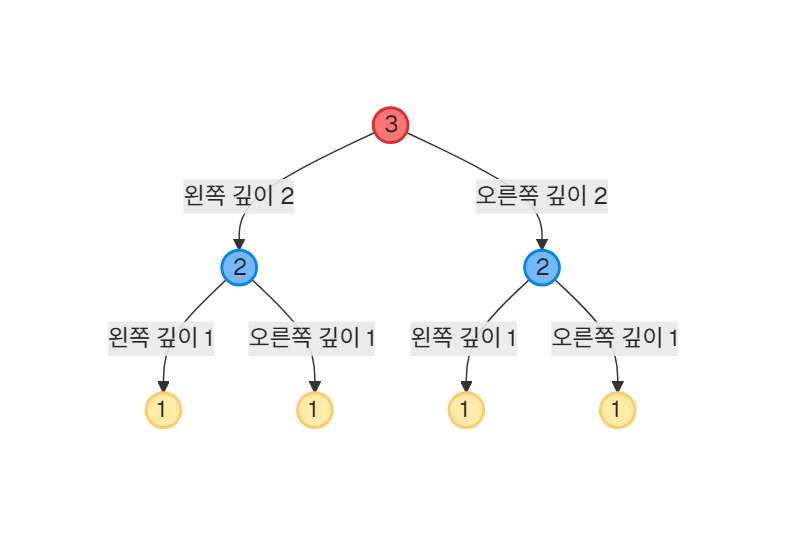
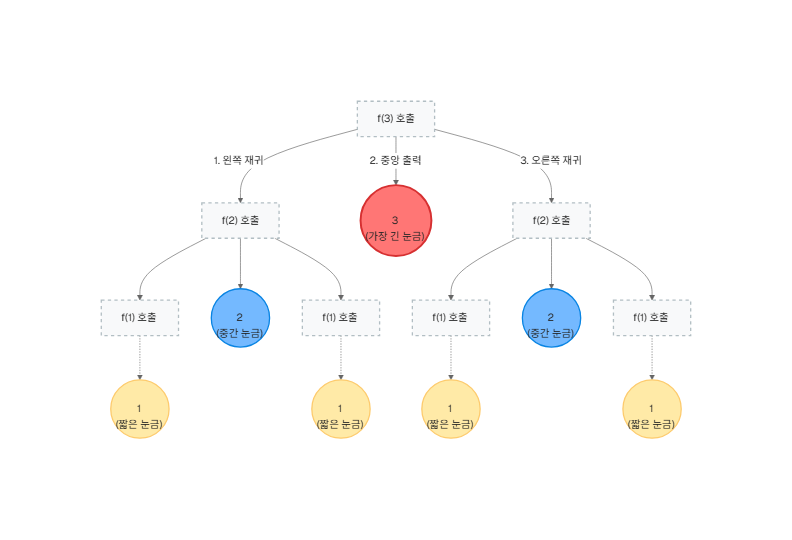
이미지 자료  추가중

diff --git a/practice/data/content/programming/doingcoding/LV26_재귀/02_workspace/SALLv10002_LOCAL.md b/practice/data/content/programming/doingcoding/LV26_재귀/02_workspace/SALLv10002_LOCAL.md
@@ -31,9 +31,9 @@ title: "02. [재귀2 - 2] 재귀적 눈금 그리기"
 눈금을 그릴 때 다음과 같은 규칙을 사용합니다.
 
 ```
-깊이 1:      1
-깊이 2:    1 2 1
-깊이 3:  1 2 1 3 1 2 1
+깊이 1:               1
+깊이 2:             1 2 1
+깊이 3:         1 2 1 3 1 2 1
 깊이 4: 1 2 1 3 1 2 1 4 1 2 1 3 1 2 1
 ```
 
@@ -89,7 +89,7 @@ $N$이 주어지면 깊이 $N$의 눈금 수열을 공백으로 구분하여 한
 
 ![alt text](image-6.png)
 
-* 수업(`ALLv10003`)의 알파벳 트리 코드에서 알파벳 출력 부분만 숫자로 바꾸면 됩니다.
+* 수업(`ALLv10002`)의 알파벳 트리 코드에서 알파벳 출력 부분만 숫자로 바꾸면 됩니다.
 * 공백 처리: `printf(" %d", depth)` 방식으로 출력하면 맨 앞에 공백이 생깁니다. 대신 가장 첫 번째 숫자를 따로 처리하거나, 전역 변수 `first`를 이용하여 깔끔하게 출력할 수 있습니다.
 
 

diff --git a/practice/data/content/programming/doingcoding/LV26_재귀/02_workspace/ALLv05001_519.md b/practice/data/content/programming/doingcoding/LV26_재귀/02_workspace/ALLv05001_519.md
@@ -38,7 +38,7 @@ archived_at: "2026-05-05"
 
 그럼 이제 이 함수를 메인에서 불러서 실행해봅시다.
 
-작동유무를 조금 더 쉽게 보기 위해 안에 printf를 넣읍시다.
+작동유무를 조금 더 쉽게 보기 위해 안에 출력문(print/printf)을 넣읍시다.
 
 
 ![alt text|700](image-3.png)
@@ -54,7 +54,7 @@ f를 5번만 실행하게 해봅시다.
 
 ![alt text](image-1.png)
 
-메인문에서 f(1)을 실행, hello를 출력합니다. f(1)은 f(2)를 실행하죠.
+호출부에서 f(1)을 실행, hello를 출력합니다. f(1)은 f(2)를 실행하죠.
 
 hello를 출력하고 f(3)을 실행하고... f(5)가 된다면 hello를 출력하고, 5니까 그대로 종료합니다.
 

diff --git a/practice/data/content/programming/doingcoding/LV26_재귀/02_workspace/ALLv05003_LOCAL.md b/practice/data/content/programming/doingcoding/LV26_재귀/02_workspace/ALLv05003_LOCAL.md
@@ -83,10 +83,10 @@ ____라고 답변하였지.
 `depth` (현재 깊이)를 재귀 함수의 매개변수로 전달하세요.
 문장을 출력하기 전, `depth`만큼 `____`를 반복 출력하는 방법을 먼저 떠올려 보세요.
 
-```c
-void print_bar(int depth) {
-    for (int i = 0; i < depth; i++) printf("____");
-}
+```text
+함수 바_출력(현재_깊이):
+    반복문 i를 0부터 현재_깊이까지:
+        "____"를 출력한다 (줄바꿈 없이)
 ```
 
 재귀 호출 **전**에 "잘 들어보게..." 문장을 출력하고,  

diff --git a/practice/data/content/programming/doingcoding/LV26_재귀/02_workspace/ALLv10004_LOCAL.md b/practice/data/content/programming/doingcoding/LV26_재귀/02_workspace/ALLv10004_LOCAL.md
@@ -123,6 +123,8 @@ title: "04. [재귀2 - 4] 프랙탈 십자 그리기"
 
 ## 4. 힌트
 
+![alt text](image-7.png)
+
 * 격자를 `char grid[N][N]`으로 선언하고, 먼저 전부 `.`으로 초기화하세요.
 * `draw` 함수는 현재 담당하는 영역의 **시작 행/열 좌표**와 **크기**를 인자로 받습니다.
 * 중앙의 행/열 인덱스는 `row_start + size / 2`, `col_start + size / 2` 입니다.

diff --git a/practice/data/content/programming/doingcoding/LV26_재귀/02_workspace/ALLv05007_LOCAL.md b/practice/data/content/programming/doingcoding/LV26_재귀/02_workspace/ALLv05007_LOCAL.md
@@ -69,7 +69,11 @@ title: "07. [재귀1 - 7] 숫자를 붙여 N자리 수 만들기"
 ---
 
 ## 4. 힌트
+
+![alt text](image-8.png)
+
 재귀 함수의 매개변수로 `(현재까지 만들어진 숫자)`와 `(현재 몇 번째 자리인지)`를 넘겨보세요.
 `solve(count + 1, current * 10 + 1)` 과 같은 형태로 자릿수를 늘릴 수 있습니다.
+
 
 ---

diff --git a/practice/data/content/programming/doingcoding/LV26_재귀/02_workspace/ALLv10002_LOCAL.md b/practice/data/content/programming/doingcoding/LV26_재귀/02_workspace/ALLv10002_LOCAL.md
@@ -31,9 +31,9 @@ title: "02. [재귀2 - 2] 알파벳 트리"
 다음 규칙으로 만들어지는 문자열을 생각해 봅시다.
 
 ```
-깊이 1:      A
-깊이 2:    A B A
-깊이 3:  A B A C A B A
+깊이 1:               A
+깊이 2:             A B A
+깊이 3:         A B A C A B A
 깊이 4: A B A C A B A D A B A C A B A
 ```
 
